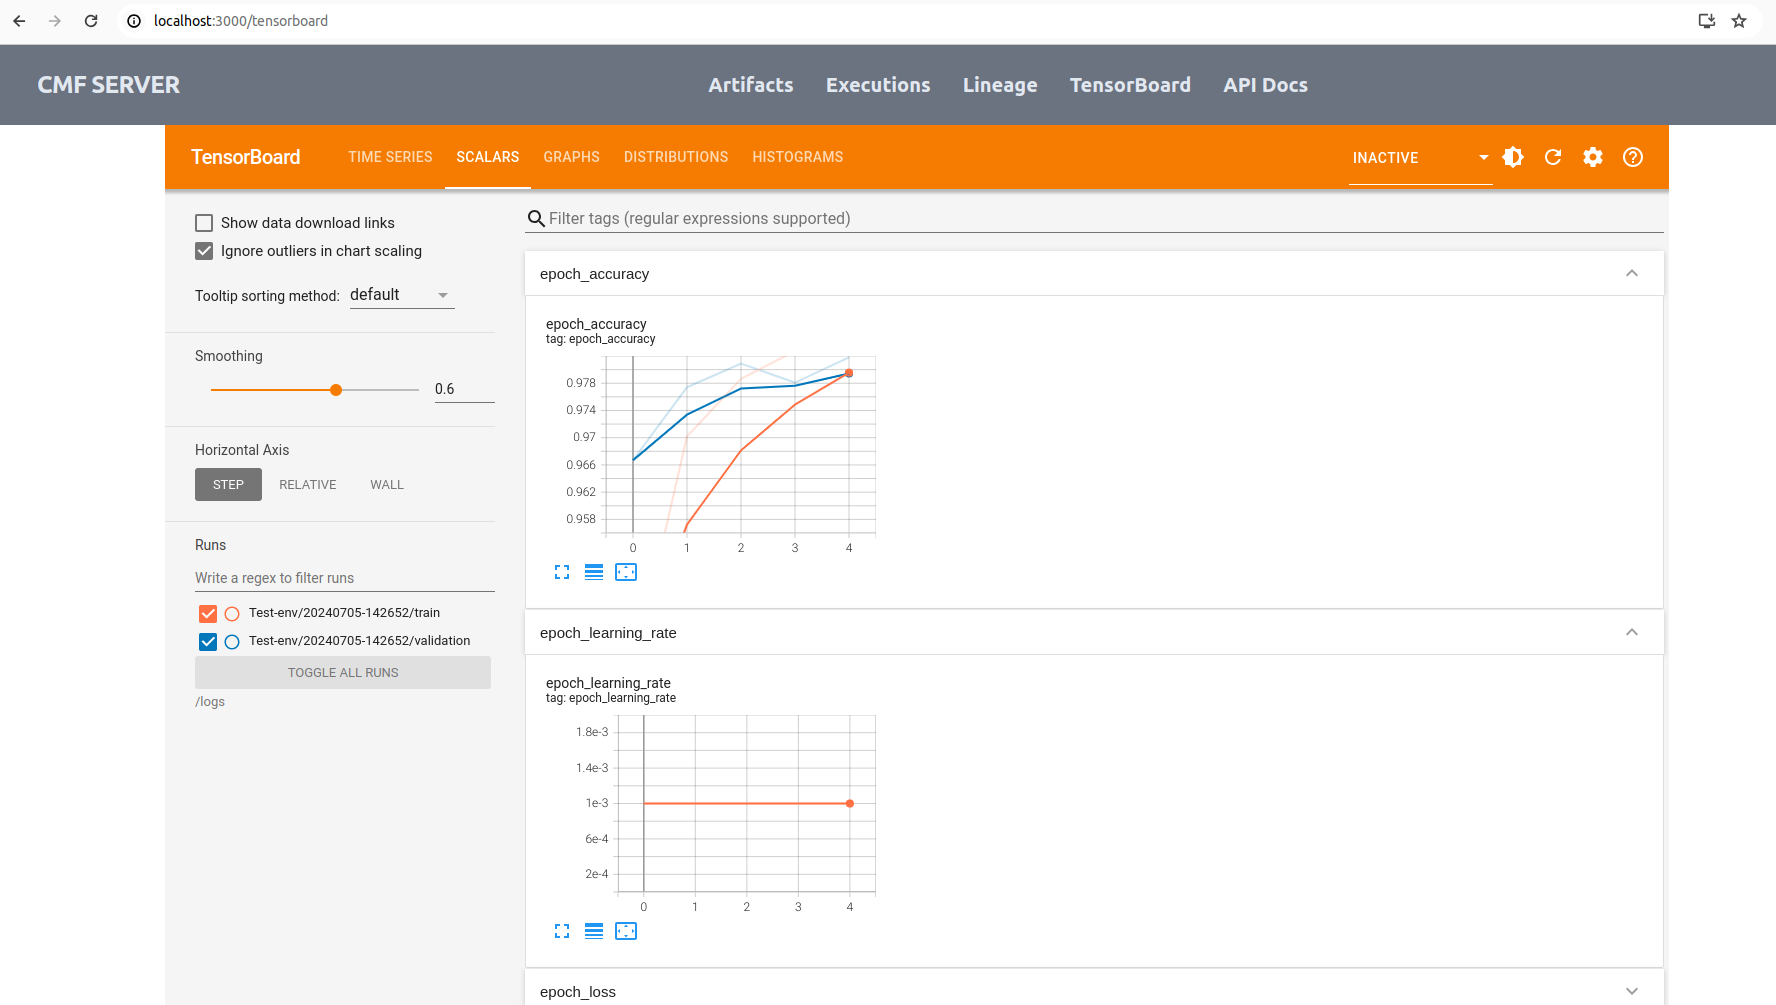
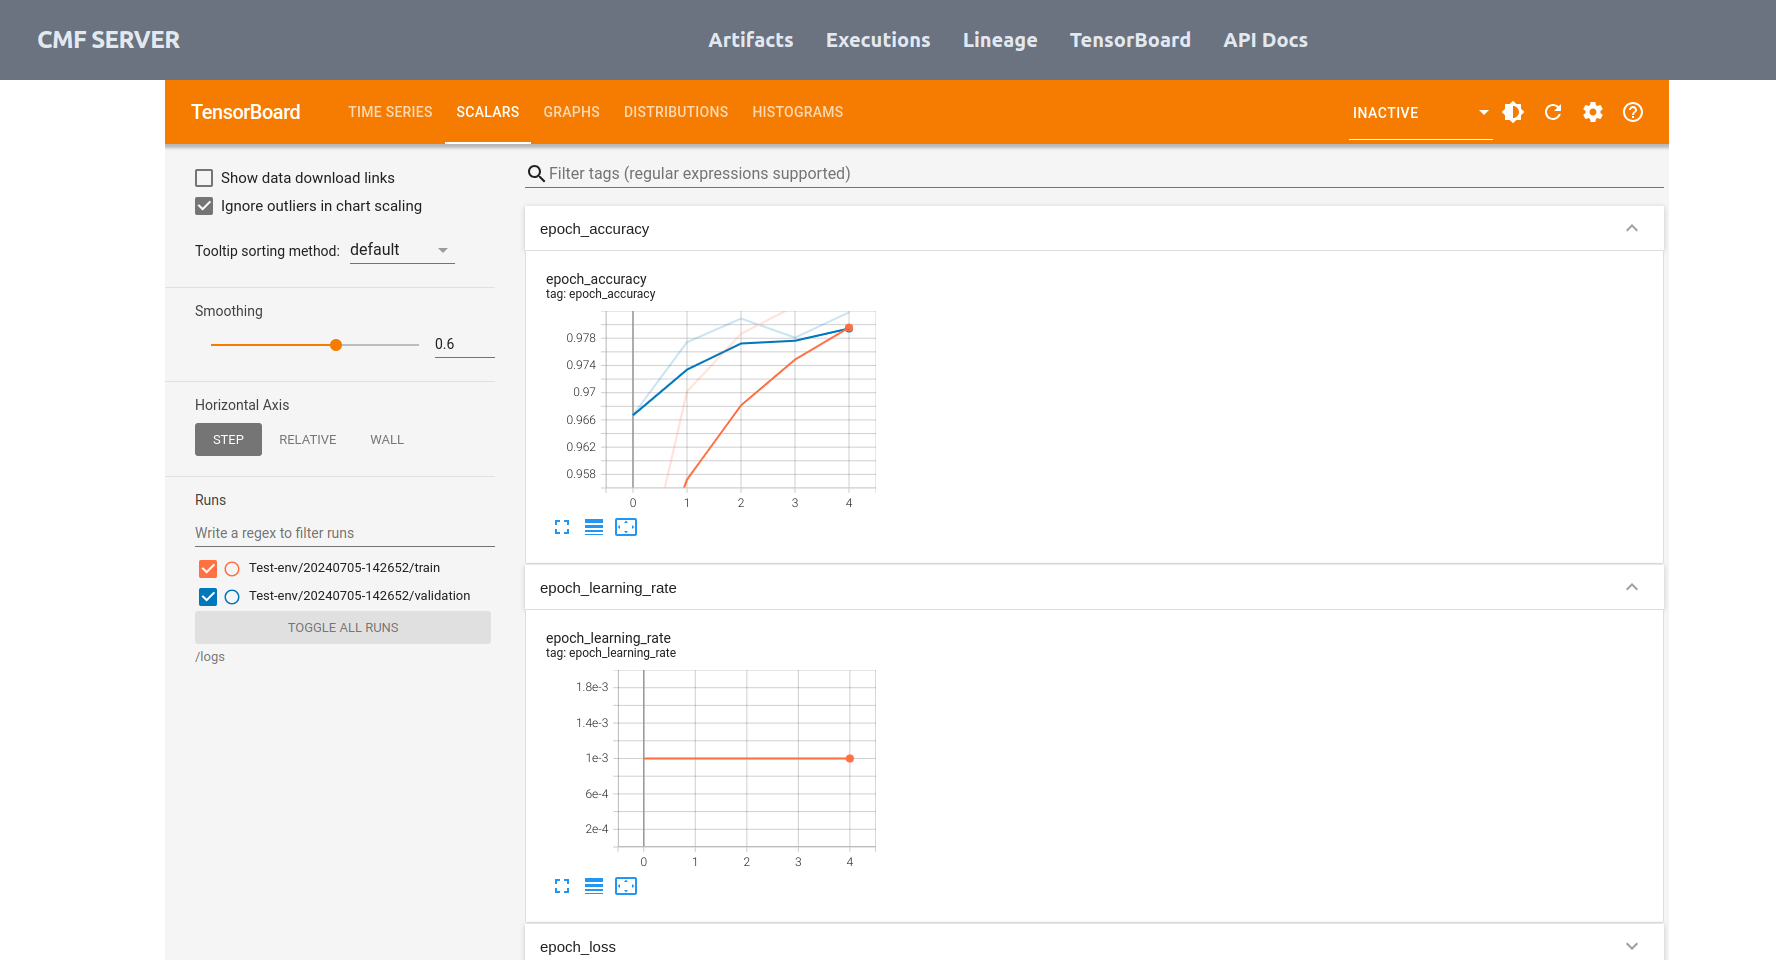
Addressed Comments

diff --git a/docs/ui/index.md b/docs/ui/index.md
@@ -22,7 +22,7 @@ The GUI organizes metadata by pipelines and stages, enabling users to easily nav
 
 1. Ensure the [CMF Server is running](../setup/index.md#install-cmf-server-with-gui)
 2. Open your browser and navigate to the server URL (default: `http://your-server-ip:80`)
-3. The GUI will display the available pipelines in the sidebar
+3. The GUI will display the available pipelines on home page of CMF GUI
 
 ---
 
@@ -79,11 +79,15 @@ The Lineage page offers interactive visualizations of data flow and dependencies
 
 The [Metahub](../cmf_server/metahub-tab-usage.md) feature enables synchronization of metadata between two CMF servers, allowing distributed teams to collaborate and share ML pipeline metadata.
 
+![CMF Metahub Page](../assets/metahub_ui_overview.png)
+
 ---
 
 ## TensorBoard Integration
 
 CMF integrates with [TensorBoard](../cmf_client/tensorflow_guide.md) to visualize training metrics, model graphs, and other ML-specific visualizations alongside CMF metadata.
+
+![CMF TensorBoard Page](../assets/Tensorboard.png)
 
 ---
 